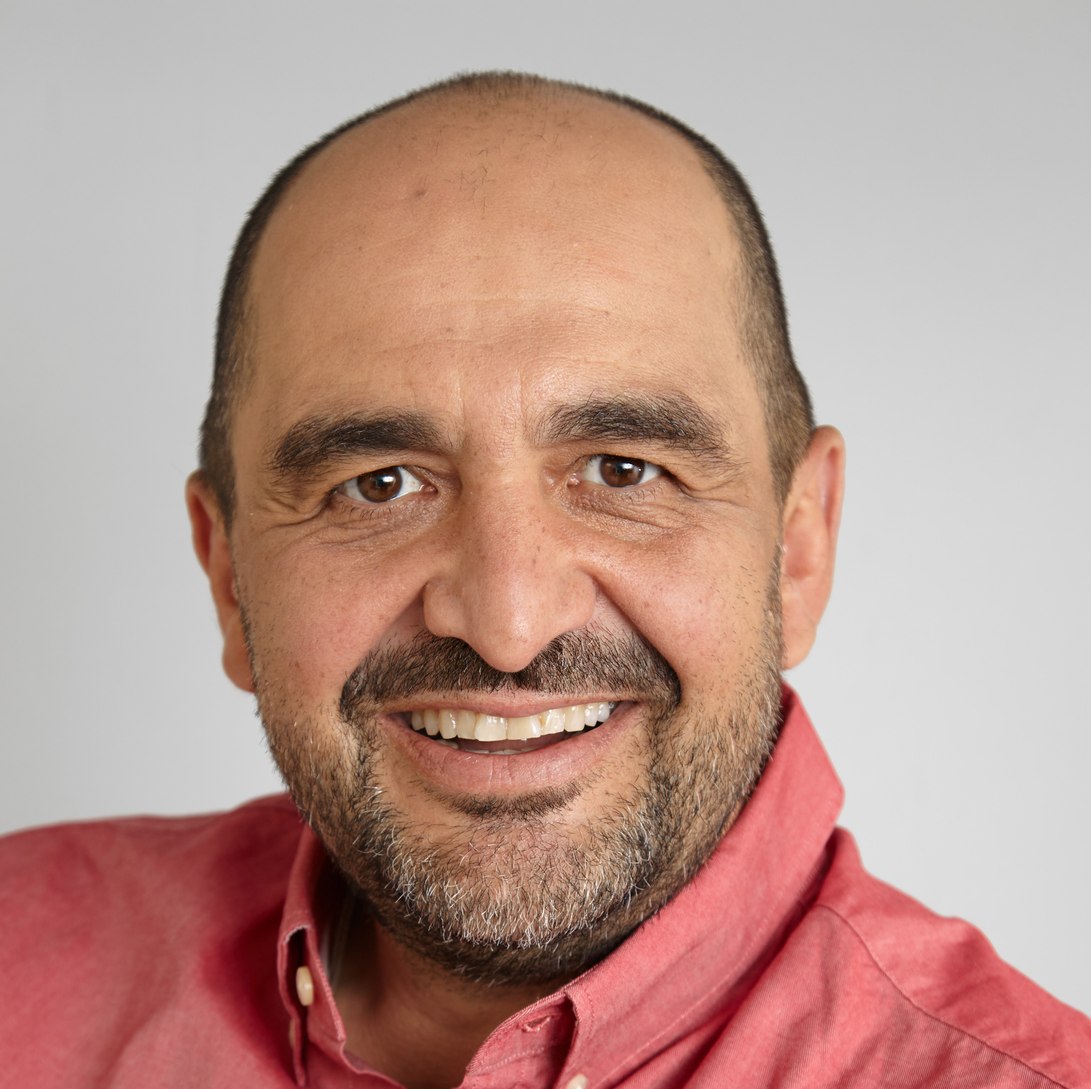
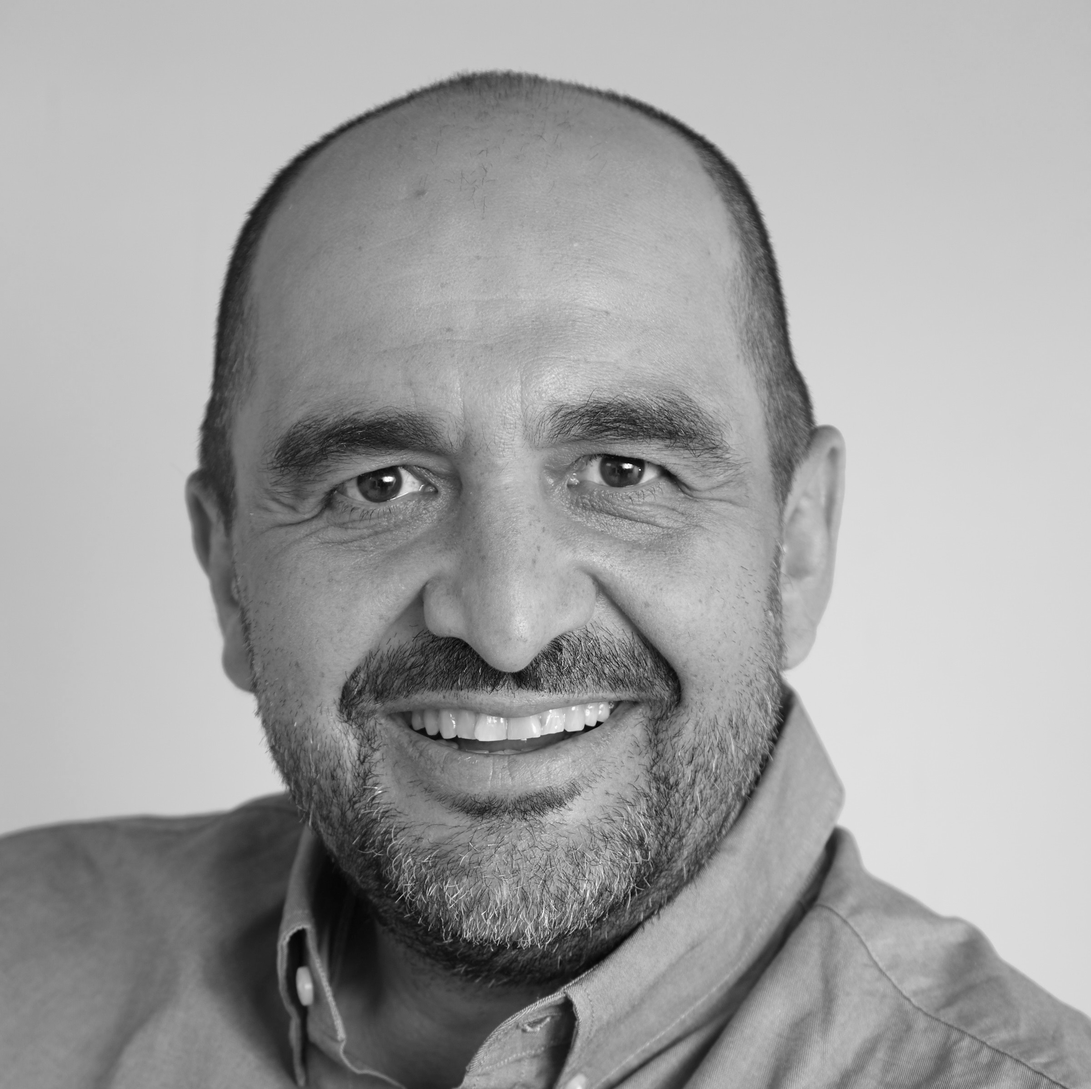
new hero image

diff --git a/src/pages/index.js b/src/pages/index.js
@@ -3,8 +3,16 @@ import { StaticQuery, graphql } from 'gatsby'
 import Img from 'gatsby-image'
 
 import styled from "@emotion/styled"
+import { css } from '@emotion/core'
 
 import Layout from "../components/layout"
+
+const Hero = css`
+  background-repeat: no-repeat;
+  background-attachment: fixed;
+  background-position: center;
+  background-size: cover;
+`
 
 const SubTitle = styled.h1`
   font-size: 1.5rem;
@@ -16,6 +24,7 @@ const Title = styled.h1`
   text-transform: uppercase;
   font-size: 4rem;
   text-align: center;
+
 
   @media (max-width: 600px) {
     font-size: 2.8rem;
@@ -57,9 +66,6 @@ const Main = styled.div`
     transform: translate3D(0, -2px, 0) scale(1.02);
 `
 const Alex = styled.div`
-  position: top;
-
-
 
 `
 
@@ -69,7 +75,7 @@ const TemplateWrapper = () => (
   <StaticQuery
     query={graphql`
       query HeroQuery {
-        hero: file(relativePath: {eq: "images/julian-bock-250960-unsplash.jpg"}) {
+        hero: file(relativePath: {eq: "images/Laptop1.jpg"}) {
           childImageSharp {
             fluid(maxWidth: 2048 quality: 100) {
               ...GatsbyImageSharpFluid
@@ -95,8 +101,9 @@ const TemplateWrapper = () => (
     render={data => (
       <>
         <Layout>
-          <section className="hero is-medium is-dark is-bold" style={{
+          <section className="hero is-large is-dark is-bold" css={Hero} style={{
               backgroundImage: `url(${data.hero.childImageSharp.fluid.src})`
+
             }}>
             <div className="hero-body">
               <div className="container">
@@ -113,11 +120,13 @@ const TemplateWrapper = () => (
             <div className="columns">
               <div className="column">First Column</div>
               <div className="column">Second Column</div>
+              <div className="column">Third Column</div>
             </div>
           </Feature>
           <Main className="container is-fluid">
             <div className="columns">
-              <Alex className="column"><Img fluid={data.Alex.childImageSharp.fluid}/></Alex>
+              <div className="column">
+                <Alex><Img fluid={data.Alex.childImageSharp.fluid}/></Alex></div>
               <div className="column"><Img fluid={data.Molly.childImageSharp.fluid}/></div>
 
             </div>
